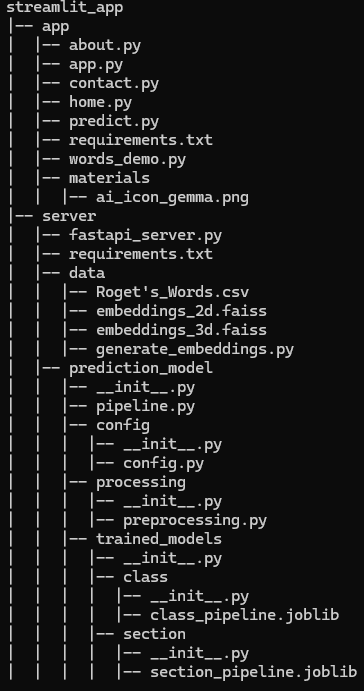
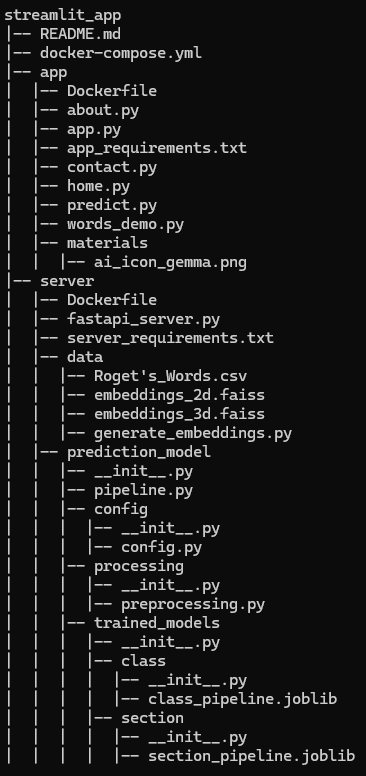
Docker setup for the streamlit webapp done!

Changed region(s): [[0.0, 0.0, 0.967, 1.0], [0.7555, 0.4863, 0.8159, 0.5166], [0.4835, 0.0608, 0.544, 0.0912]]

diff --git a/streamlit_app/server/fastapi_server.py b/streamlit_app/server/fastapi_server.py
@@ -119,4 +119,4 @@ def get_embeddings(embed_parser: Embeddings):
         raise HTTPException(status_code=404, detail="Embeddings do not exist for this number of dimensions.")
 
 if __name__ == '__main__':
-	uvicorn.run(app, host='127.0.0.1', port=8081)
+	uvicorn.run(app)

diff --git a/streamlit_app/app/predict.py b/streamlit_app/app/predict.py
@@ -3,7 +3,7 @@ import requests
 import streamlit as st
 from streamlit_searchbox import st_searchbox
 
-FASTAPI_URL = "http://127.0.0.1:8081"
+FASTAPI_URL = "http://fastapi_server:8081"
 
 def get_words():
     # Fetches words from the API

diff --git a/streamlit_app/app/words_demo.py b/streamlit_app/app/words_demo.py
@@ -4,7 +4,7 @@ import pandas as pd
 import plotly.express as px
 
 
-FASTAPI_URL = "http://127.0.0.1:8081"
+FASTAPI_URL = "http://fastapi_server:8081"
 
 @st.cache_data
 def get_words():
